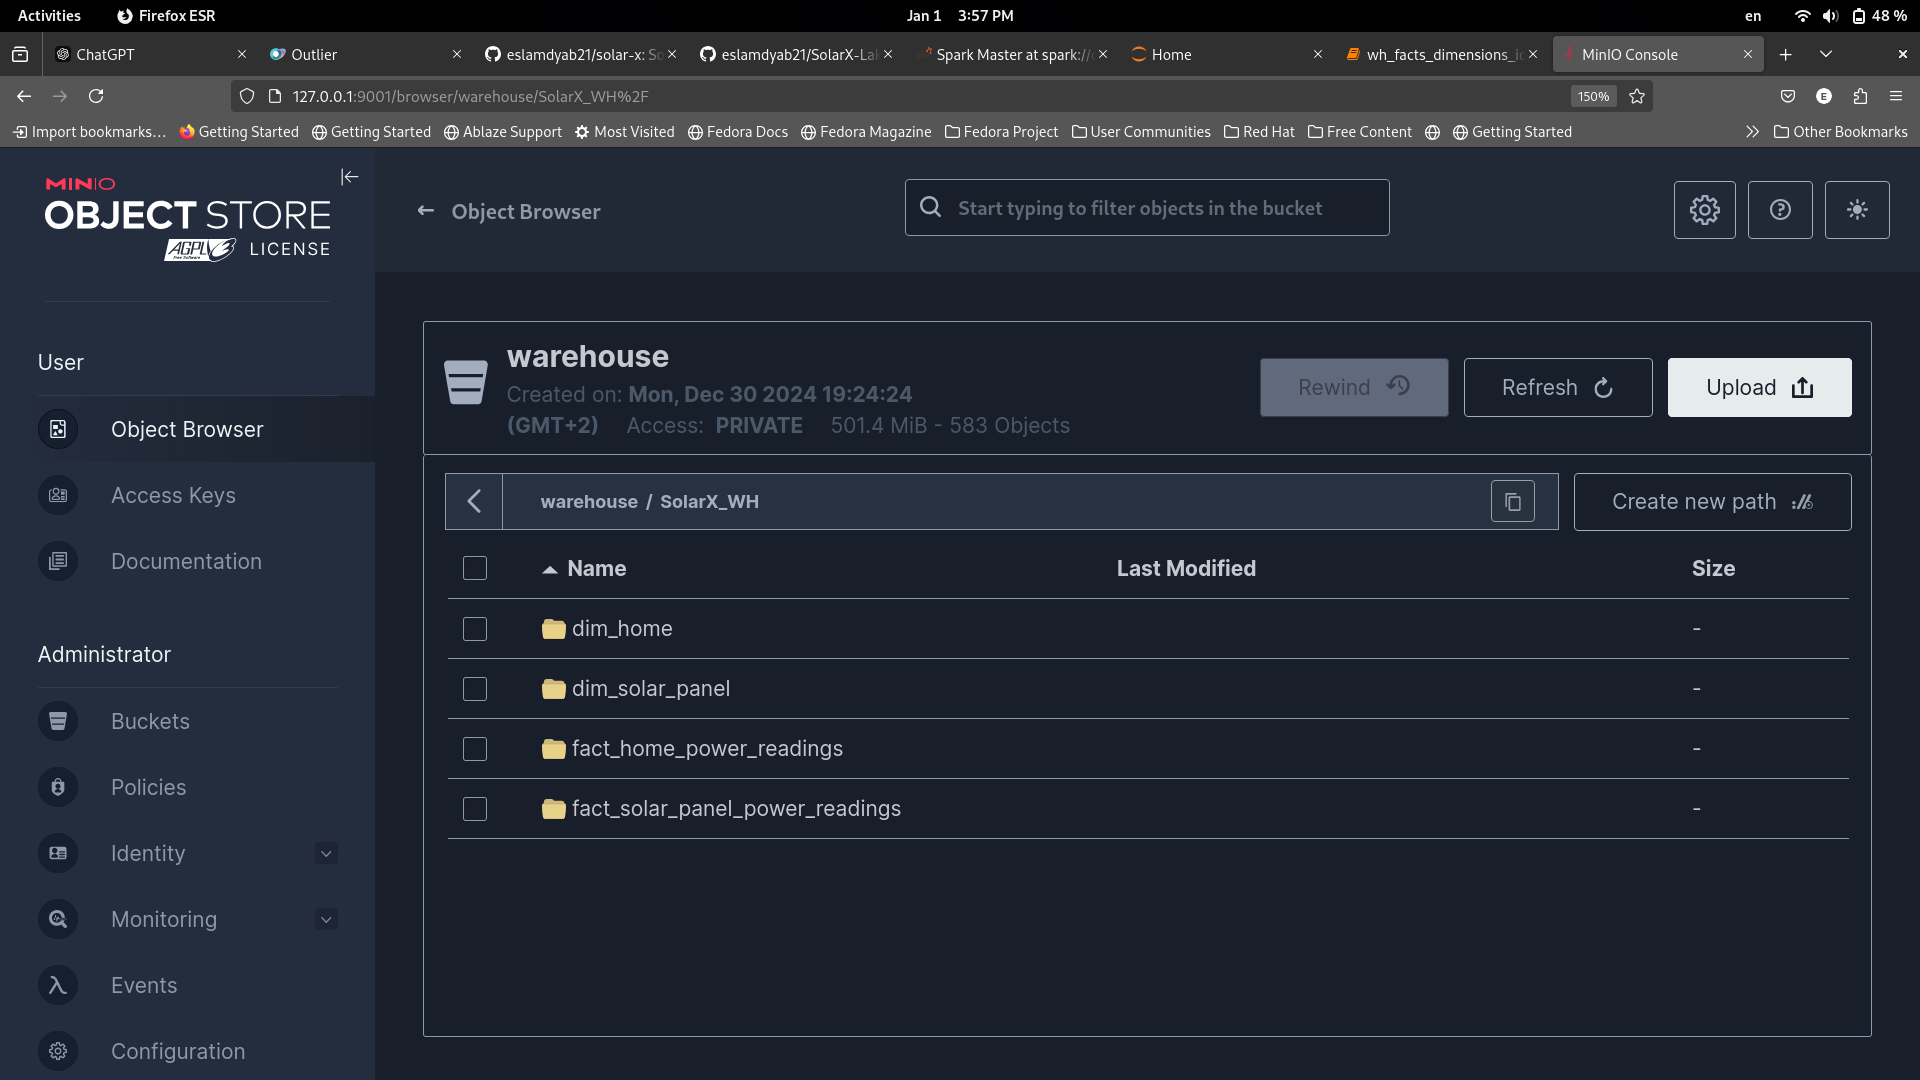
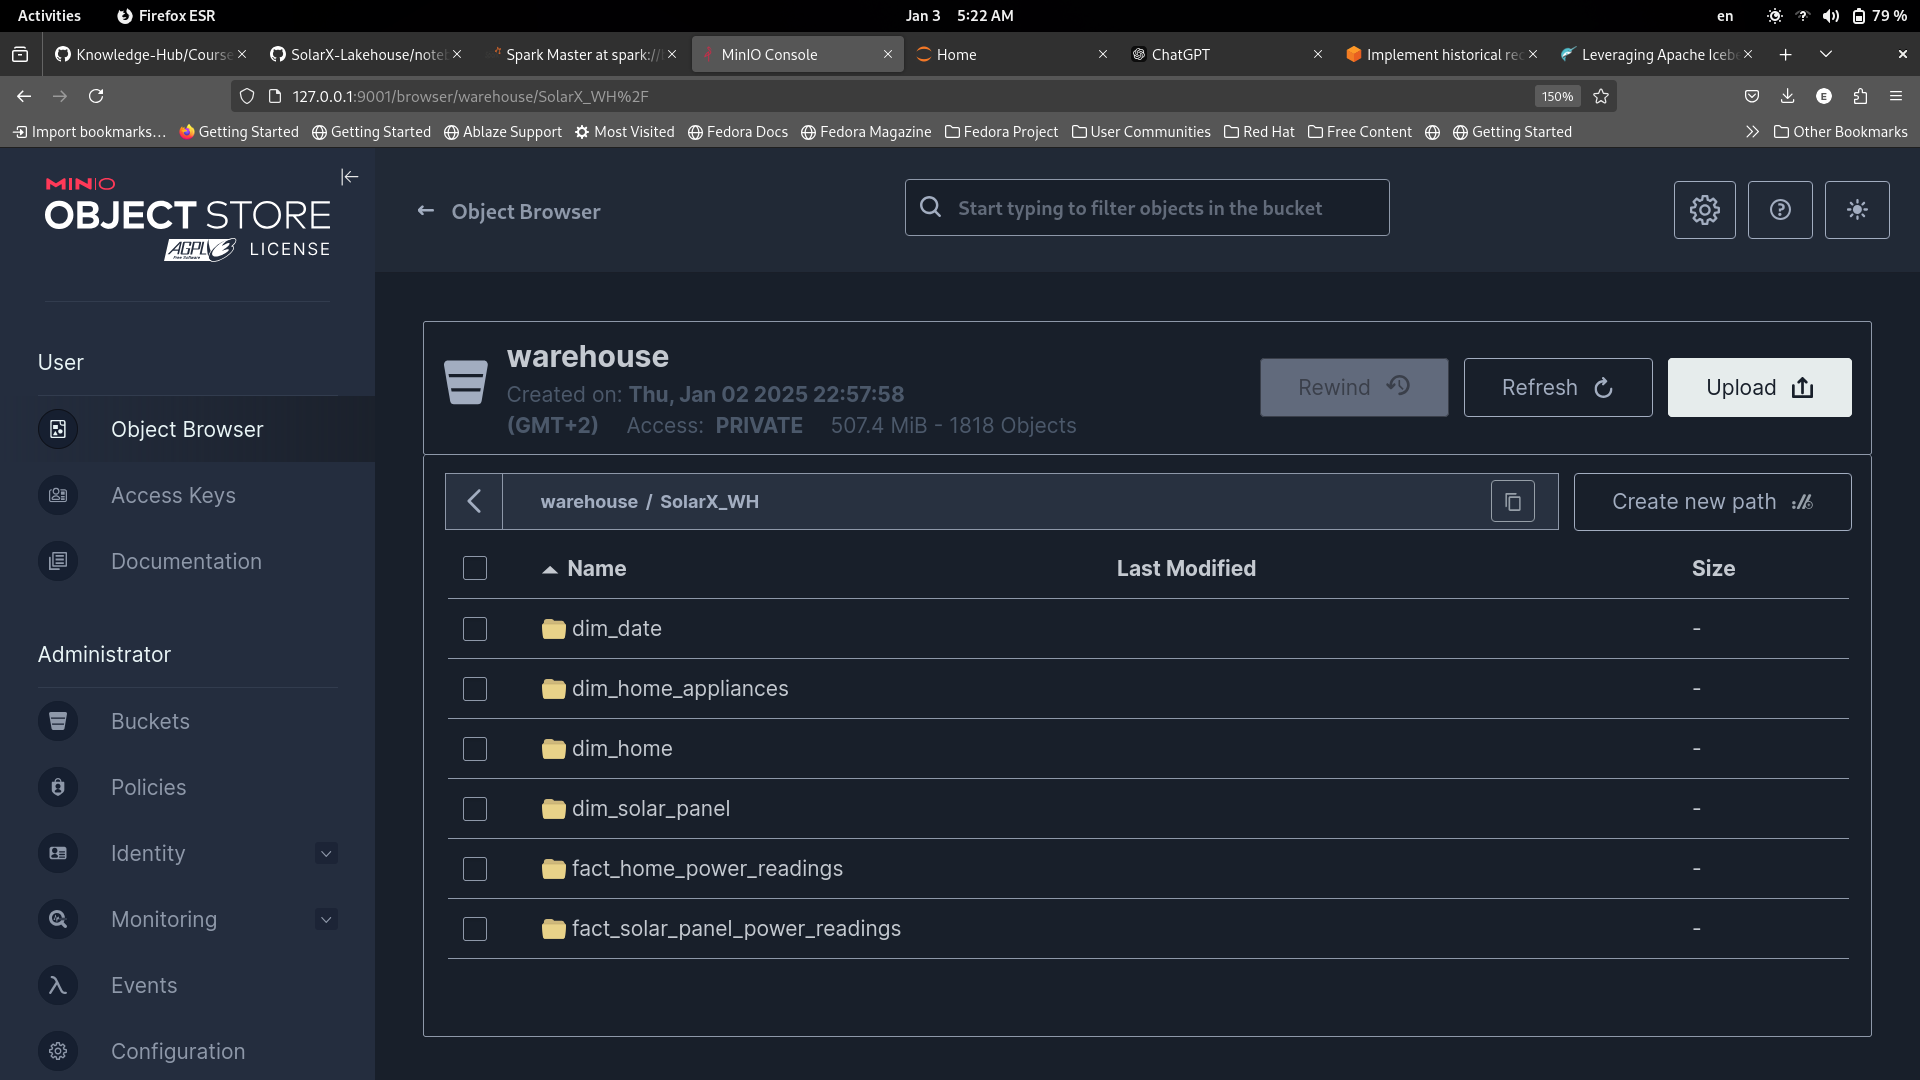
update readme

diff --git a/README.md b/README.md
@@ -452,28 +452,50 @@ CREATE DATABASE IF NOT EXISTS SolarX_WH
 ## Model
 You can find the code in the `notebooks/wh_facts_dimensions_iceberg_tables.ipynb` which will be a `.py` file later with the others to run the pipeline with `Airflow`.
 
+<br/>
+
+### Home Appliances Dimension
+```sql
+%%sql
+
+CREATE TABLE SolarX_WH.dim_home_appliances(
+    home_appliance_key                  SMALLINT    NOT NULL,
+    home_key                            SMALLINT    NOT NULL, -- REFERENCES dim_home(home_key)
+    appliance                           VARCHAR(25) NOT NULL,    
+    min_consumption_power_wh            FLOAT       NOT NULL,
+    max_consumption_power_wh            FLOAT       NOT NULL,
+    usage_time                          VARCHAR(50) NOT NULL
+)
+USING iceberg;
+```
+
+A snapshot of the table content
+![](images/applinaces.png)
+
+<br/>
+
 ### Home Dimension
 ```sql
 %%sql
 
 CREATE TABLE SolarX_WH.dim_home(
-    home_key                            INT         NOT NULL,
-    home_id                             INT         NOT NULL,
-    appliance                           VARCHAR(25) NOT NULL,    
-    consumption_power                   FLOAT       NOT NULL,
-    usage_time                          VARCHAR(50) NOT NULL,
+    home_key                                   SMALLINT    NOT NULL,
+    min_consumption_power_wh                   FLOAT       NOT NULL,
+    max_consumption_power_wh                   FLOAT       NOT NULL,
 
-    -- scd type2 for consumption_power
-    consumption_power_start_date        TIMESTAMP   NOT NULL,
-    consumption_power_end_date          TIMESTAMP,
+    -- scd type2 for min_consumption_power_wh
+    min_consumption_power_wh_start_date        TIMESTAMP   NOT NULL,
+    min_consumption_power_wh_end_date          TIMESTAMP,
 
-    -- scd type2 for usage_time
-    usage_time_start_date               TIMESTAMP  NOT NULL,
-    usage_time_end_date                 TIMESTAMP
+    -- scd type2 for max_consumption_power_wh
+    max_consumption_power_wh_start_date        TIMESTAMP  NOT NULL,
+    max_consumption_power_wh_end_date          TIMESTAMP,
+
+    current_flag                               BOOLEAN NOT NULL
 )
 USING iceberg;
 ```
-We model the `consumption_power` and `usage_time` as slowly changing dimensions of type 2 to be able to historically track the home load changes.
+We model the `consumption_power` as a slowly changing dimensions of type 2 to be able to historically track the home load changes.
 
 <br/>
 
@@ -484,17 +506,16 @@ We model the `consumption_power` and `usage_time` as slowly changing dimensions 
 CREATE TABLE SolarX_WH.fact_home_power_readings(
     home_power_reading_key          INT           NOT NULL,
     home_key                        SMALLINT      NOT NULL,   -- REFERENCES dim_home(home_key)
-    date_key                        SMALLINT      NOT NULL,   -- REFERENCES dim_date(date_key)
+    date_key                        TIMESTAMP     NOT NULL,   -- REFERENCES dim_date(date_key)
 
-    home_power_reading_id          VARCHAR(25)   NOT NULL,
-    date                            DATE          NOT NULL,
+    home_power_reading_id           VARCHAR(25)   NOT NULL,
     15_minutes_interval             SMALLINT      NOT NULL,
     min_consumption_power_wh        FLOAT         NOT NULL,
     max_consumption_power_wh        FLOAT         NOT NULL 
 )
 
 USING iceberg
-PARTITIONED BY (MONTH(date), 15_minutes_interval)
+PARTITIONED BY (MONTH(date_key), 15_minutes_interval)
 ```
 
 It's worth noting here that the `home_power_reading_key` will be a combination of the `date` and the `15_minutes_interval` from the source raw data to uniquely identify the readings, a snapshot of how will it look like is below.
@@ -560,16 +581,15 @@ We model the `capacity_kwh`, `intensity_power_rating_wh` and `temperature_power_
 CREATE TABLE SolarX_WH.fact_solar_panel_power_readings(
     solar_panel_reading_key         INT           NOT NULL,
     solar_panel_key                 SMALLINT      NOT NULL,   -- REFERENCES dim_solar_panel(solar_panel_key)
-    date_key                        SMALLINT      NOT NULL,   -- REFERENCES dim_date(date_key)
+    date_key                        TIMESTAMP     NOT NULL,   -- REFERENCES dim_date(date_key)
 
     solar_panel_reading_id          VARCHAR(25)   NOT NULL,
-    date                            DATE          NOT NULL,
     15_minutes_interval             SMALLINT      NOT NULL,
     generation_power_wh             FLOAT         NOT NULL 
 )
 
 USING iceberg
-PARTITIONED BY (MONTH(date), 15_minutes_interval)
+PARTITIONED BY (MONTH(date_key), 15_minutes_interval)
 ```
 
 It's also worth noting here that the `solar_panel_reading_id` will be a combination of the `date` and the `15_minutes_interval` from the source raw data to uniquely identify the readings, a snapshot of how will it look like is below.
@@ -578,6 +598,156 @@ It's also worth noting here that the `solar_panel_reading_id` will be a combinat
 
 <br/>
 
+### Date Dimension
+```sql
+%%sql
+
+CREATE TABLE SolarX_WH.dim_date
+(
+    date_key            TIMESTAMP  NOT NULL,
+    year                SMALLINT   NOT NULL,
+    quarter             SMALLINT   NOT NULL,
+    month               SMALLINT   NOT NULL,
+    week                SMALLINT   NOT NULL,
+    day                 SMALLINT   NOT NULL,
+    hour                SMALLINT   NOT NULL,
+    minute              SMALLINT   NOT NULL,
+    is_weekend          BOOLEAN    NOT NULL
+)
+
+USING iceberg
+PARTITIONED BY (month, minute)
+```
+
+
+
+<br/>
+
 ## SolarX_WH namespace/database tables
 ![](images/2names.png)
 ![](images/dimsfacts.png)
+
+
+<br/>
+<br/>
+<br/>
+
+## Warehouse ETL
+In this section we extract transform and load the lakehouse raw data into the warehouse lower granularity dimensions and tables.
+
+<br/>
+
+### Home Appliances Dimension
+We use the `home_appliances_consumption.json` file as the source data here and load it into the `dim_home_appliances`, first we process the json data with pandas, make a temporary view of the dataframe then invoke the following 
+```sql
+%%sql
+
+MERGE INTO SolarX_WH.dim_home_appliances dim_app
+USING 
+    (SELECT    home_appliance_key        as home_appliance_key, 
+               home_key                  as home_key,
+               name                      as appliance,
+               min_consumption_rating    as min_consumption_power_wh,
+               max_consumption_rating    as max_consumption_power_wh,
+               usage_time                as usage_time
+    FROM temp_view_2) tmp
+    
+ON dim_app.home_appliance_key = tmp.home_appliance_key
+
+WHEN MATCHED AND (
+    dim_app.min_consumption_power_wh != tmp.min_consumption_power_wh OR
+    dim_app.max_consumption_power_wh != tmp.max_consumption_power_wh
+) THEN UPDATE SET 
+    dim_app.min_consumption_power_wh = tmp.min_consumption_power_wh,
+    dim_app.max_consumption_power_wh = tmp.max_consumption_power_wh
+
+WHEN NOT MATCHED THEN INSERT *
+```
+Which make only insert new data and update the existing if matching, we didn't use `scd2` here, we will use it with the home dimension.
+
+A snapshot of the table content
+![](images/applinaces.png)
+
+<br/>
+
+### Home  Dimension
+We use the `dim_home_appliances` as the source data here and load it into the `dim_home` after calculation the the total power per hour for the home usage, the etl is splited into two main sequential process. 
+```sql
+%%sql
+
+MERGE INTO SolarX_WH.dim_home dim_home
+USING (
+    SELECT 
+        home_key, 
+        SUM(min_consumption_power_wh) AS min_consumption_power_wh,
+        SUM(max_consumption_power_wh) AS max_consumption_power_wh 
+    FROM SolarX_WH.dim_home_appliances
+    GROUP BY home_key
+) dim_app
+ON dim_home.home_key = dim_app.home_key AND dim_home.current_flag = TRUE
+
+WHEN MATCHED AND (
+    dim_home.max_consumption_power_wh != dim_app.max_consumption_power_wh OR
+    dim_home.min_consumption_power_wh != dim_app.min_consumption_power_wh
+) THEN UPDATE SET 
+    dim_home.min_consumption_power_wh_end_date = NOW(),
+    dim_home.max_consumption_power_wh_end_date = NOW(),
+    dim_home.current_flag = FALSE;
+```
+
+```sql
+%%sql
+
+MERGE INTO SolarX_WH.dim_home dim_home
+USING (
+    SELECT 
+        home_key, 
+        SUM(min_consumption_power_wh) AS min_consumption_power_wh,
+        SUM(max_consumption_power_wh) AS max_consumption_power_wh 
+    FROM SolarX_WH.dim_home_appliances
+    GROUP BY home_key
+) dim_app
+ON dim_home.home_key = dim_app.home_key AND dim_home.current_flag = TRUE
+
+WHEN NOT MATCHED THEN 
+INSERT (
+    home_key,
+    min_consumption_power_wh, 
+    max_consumption_power_wh,
+    min_consumption_power_wh_start_date,
+    min_consumption_power_wh_end_date,
+    max_consumption_power_wh_start_date,
+    max_consumption_power_wh_end_date,
+    current_flag
+) VALUES (
+    dim_app.home_key,
+    dim_app.min_consumption_power_wh,
+    dim_app.max_consumption_power_wh,
+    NOW(),
+    NULL,
+    NOW(),
+    NULL,
+    TRUE
+);
+```
+
+And here is a test run for the `scd2` when changing the source data -`dim_home_appliances`- two times in the background and running the `etl` again.
+![](images/scd1.png)
+![](images/scd2.png)
+
+Also `iceberg` natively tracks the changes creating a snapshot with each `INSERT, UPDATE, DELETE` operation we do, so it kinda do the `scd` internally.
+
+```sql
+%%sql
+
+CALL demo.system.create_changelog_view(
+    table => 'SolarX_WH.dim_home',
+    changelog_view => 'dim_home_clv',
+    identifier_columns => array('home_key')
+)
+```
+
+![](images/log1.png)
+
+![](images/log2.png)
+And we can go back and time travel to any snapshot even if delete the record.
